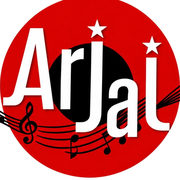
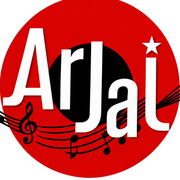
Новый логотип ArJai (без фона) и фавиконки; блок создателя — от третьего лица: «Этот сайт сделал Амир»
Claude-Session: https://claude.ai/code/session_01FCrHJHtE9CwfmXPZF1N4Np

diff --git a/kk/index.html b/kk/index.html
@@ -29,7 +29,7 @@
 <link rel="apple-touch-icon" href="../assets/apple-touch-icon.png">
 <link rel="preload" href="../assets/fonts/onest-cyrillic-500-normal.woff2" as="font" type="font/woff2" crossorigin>
 <link rel="preload" href="../assets/fonts/onest-cyrillic-400-normal.woff2" as="font" type="font/woff2" crossorigin>
-<link rel="stylesheet" href="../assets/styles.css?v=20261105o">
+<link rel="stylesheet" href="../assets/styles.css?v=20261105p">
 <script type="application/ld+json">
 {
  "@context": "https://schema.org",
@@ -899,7 +899,7 @@
       <div class="dev-text">
         <span class="dev-tag">Сайтты жасаған</span>
         <h3>Амир — бизнеске арналған сайттар және ЖИ-автоматтандыру</h3>
-        <p>Бұл сайтты мен жасадым. Сайттар, WhatsApp пен Instagram-ға арналған чат-боттар және өтінімдерді автоматтандыру жасаймын. Осындай керек болса — жазыңыз.</p>
+        <p>Бұл сайтты Амир жасады. Ол сайттар, WhatsApp пен Instagram-ға арналған чат-боттар және өтінімдерді автоматтандыру жасайды. Осындай керек болса — оған жазыңыз.</p>
       </div>
       <div class="dev-btns">
         <a class="dev-btn wa" href="https://wa.me/77075857331" target="_blank" rel="noopener"><svg viewBox="0 0 24 24" aria-hidden="true"><path fill="currentColor" d="M12 2a10 10 0 0 0-8.6 15.1L2 22l5-1.3A10 10 0 1 0 12 2zm0 18.2a8.2 8.2 0 0 1-4.2-1.2l-.3-.2-3 .8.8-2.9-.2-.3A8.2 8.2 0 1 1 12 20.2z"/><path fill="currentColor" d="M8.6 7.2c.2-.4.5-.4.7-.4h.6c.2 0 .4 0 .6.5l.8 1.9c.1.2.1.4 0 .6l-.4.6c-.1.2-.3.3-.1.6.6 1 1.4 1.8 2.4 2.4.3.2.4.1.6-.1l.6-.7c.2-.2.3-.2.6-.1l1.8.9c.3.1.4.2.4.4 0 .5-.2 1.2-.7 1.6-.5.4-1.4.6-2.3.3-1.1-.3-2.6-1-3.8-2.3-1.3-1.3-2.1-2.8-2.3-3.7-.2-.9 0-1.8.5-2.5z"/></svg><span><b>WhatsApp</b><small>+7 707 585 73 31</small></span></a>
@@ -1023,6 +1023,6 @@
   </div>
 </dialog>
 
-<script src="../assets/script.js?v=20261105o"></script>
+<script src="../assets/script.js?v=20261105p"></script>
 </body>
 </html>

diff --git a/index.html b/index.html
@@ -29,7 +29,7 @@
 <link rel="apple-touch-icon" href="assets/apple-touch-icon.png">
 <link rel="preload" href="assets/fonts/onest-cyrillic-500-normal.woff2" as="font" type="font/woff2" crossorigin>
 <link rel="preload" href="assets/fonts/onest-cyrillic-400-normal.woff2" as="font" type="font/woff2" crossorigin>
-<link rel="stylesheet" href="assets/styles.css?v=20261105o">
+<link rel="stylesheet" href="assets/styles.css?v=20261105p">
 <script type="application/ld+json">
 {
  "@context": "https://schema.org",
@@ -899,7 +899,7 @@
       <div class="dev-text">
         <span class="dev-tag">Создатель сайта</span>
         <h3>Амир — сайты и ИИ-автоматизация для бизнеса</h3>
-        <p>Этот сайт сделал я. Делаю сайты, чат-ботов для WhatsApp и Instagram и автоматизацию заявок. Хотите так же — напишите.</p>
+        <p>Этот сайт сделал Амир. Он создаёт сайты, чат-ботов для WhatsApp и Instagram и автоматизацию заявок. Хотите такой же — напишите ему.</p>
       </div>
       <div class="dev-btns">
         <a class="dev-btn wa" href="https://wa.me/77075857331" target="_blank" rel="noopener"><svg viewBox="0 0 24 24" aria-hidden="true"><path fill="currentColor" d="M12 2a10 10 0 0 0-8.6 15.1L2 22l5-1.3A10 10 0 1 0 12 2zm0 18.2a8.2 8.2 0 0 1-4.2-1.2l-.3-.2-3 .8.8-2.9-.2-.3A8.2 8.2 0 1 1 12 20.2z"/><path fill="currentColor" d="M8.6 7.2c.2-.4.5-.4.7-.4h.6c.2 0 .4 0 .6.5l.8 1.9c.1.2.1.4 0 .6l-.4.6c-.1.2-.3.3-.1.6.6 1 1.4 1.8 2.4 2.4.3.2.4.1.6-.1l.6-.7c.2-.2.3-.2.6-.1l1.8.9c.3.1.4.2.4.4 0 .5-.2 1.2-.7 1.6-.5.4-1.4.6-2.3.3-1.1-.3-2.6-1-3.8-2.3-1.3-1.3-2.1-2.8-2.3-3.7-.2-.9 0-1.8.5-2.5z"/></svg><span><b>WhatsApp</b><small>+7 707 585 73 31</small></span></a>
@@ -1023,6 +1023,6 @@
   </div>
 </dialog>
 
-<script src="assets/script.js?v=20261105o"></script>
+<script src="assets/script.js?v=20261105p"></script>
 </body>
 </html>

diff --git a/tools/pages/index.html b/tools/pages/index.html
@@ -577,7 +577,7 @@
       <div class="dev-text">
         <span class="dev-tag">Создатель сайта</span>
         <h3>Амир — сайты и ИИ-автоматизация для бизнеса</h3>
-        <p>Этот сайт сделал я. Делаю сайты, чат-ботов для WhatsApp и Instagram и автоматизацию заявок. Хотите так же — напишите.</p>
+        <p>Этот сайт сделал Амир. Он создаёт сайты, чат-ботов для WhatsApp и Instagram и автоматизацию заявок. Хотите такой же — напишите ему.</p>
       </div>
       <div class="dev-btns">
         <a class="dev-btn wa" href="https://wa.me/77075857331" target="_blank" rel="noopener"><svg viewBox="0 0 24 24" aria-hidden="true"><path fill="currentColor" d="M12 2a10 10 0 0 0-8.6 15.1L2 22l5-1.3A10 10 0 1 0 12 2zm0 18.2a8.2 8.2 0 0 1-4.2-1.2l-.3-.2-3 .8.8-2.9-.2-.3A8.2 8.2 0 1 1 12 20.2z"/><path fill="currentColor" d="M8.6 7.2c.2-.4.5-.4.7-.4h.6c.2 0 .4 0 .6.5l.8 1.9c.1.2.1.4 0 .6l-.4.6c-.1.2-.3.3-.1.6.6 1 1.4 1.8 2.4 2.4.3.2.4.1.6-.1l.6-.7c.2-.2.3-.2.6-.1l1.8.9c.3.1.4.2.4.4 0 .5-.2 1.2-.7 1.6-.5.4-1.4.6-2.3.3-1.1-.3-2.6-1-3.8-2.3-1.3-1.3-2.1-2.8-2.3-3.7-.2-.9 0-1.8.5-2.5z"/></svg><span><b>WhatsApp</b><small>+7 707 585 73 31</small></span></a>

diff --git a/kk/dosi.html b/kk/dosi.html
@@ -27,7 +27,7 @@
 <link rel="icon" href="../assets/favicon-32.png" sizes="32x32" type="image/png">
 <link rel="icon" href="../assets/favicon-192.png" sizes="192x192" type="image/png">
 <link rel="apple-touch-icon" href="../assets/apple-touch-icon.png">
-<link rel="stylesheet" href="../assets/styles.css?v=20261105o">
+<link rel="stylesheet" href="../assets/styles.css?v=20261105p">
 <script type="application/ld+json">
 {
  "@context": "https://schema.org",
@@ -453,6 +453,6 @@
   </div>
 </dialog>
 
-<script src="../assets/script.js?v=20261105o"></script>
+<script src="../assets/script.js?v=20261105p"></script>
 </body>
 </html>

diff --git a/kk/masterskaya.html b/kk/masterskaya.html
@@ -27,7 +27,7 @@
 <link rel="icon" href="../assets/favicon-32.png" sizes="32x32" type="image/png">
 <link rel="icon" href="../assets/favicon-192.png" sizes="192x192" type="image/png">
 <link rel="apple-touch-icon" href="../assets/apple-touch-icon.png">
-<link rel="stylesheet" href="../assets/styles.css?v=20261105o">
+<link rel="stylesheet" href="../assets/styles.css?v=20261105p">
 <script type="application/ld+json">
 {
  "@context": "https://schema.org",
@@ -228,6 +228,6 @@
   </div>
 </dialog>
 
-<script src="../assets/script.js?v=20261105o"></script>
+<script src="../assets/script.js?v=20261105p"></script>
 </body>
 </html>

diff --git a/kk/repetitor.html b/kk/repetitor.html
@@ -27,7 +27,7 @@
 <link rel="icon" href="../assets/favicon-32.png" sizes="32x32" type="image/png">
 <link rel="icon" href="../assets/favicon-192.png" sizes="192x192" type="image/png">
 <link rel="apple-touch-icon" href="../assets/apple-touch-icon.png">
-<link rel="stylesheet" href="../assets/styles.css?v=20261105o">
+<link rel="stylesheet" href="../assets/styles.css?v=20261105p">
 <script type="application/ld+json">
 {
  "@context": "https://schema.org",
@@ -287,6 +287,6 @@
   </div>
 </dialog>
 
-<script src="../assets/script.js?v=20261105o"></script>
+<script src="../assets/script.js?v=20261105p"></script>
 </body>
 </html>

diff --git a/kk/shkolam.html b/kk/shkolam.html
@@ -27,7 +27,7 @@
 <link rel="icon" href="../assets/favicon-32.png" sizes="32x32" type="image/png">
 <link rel="icon" href="../assets/favicon-192.png" sizes="192x192" type="image/png">
 <link rel="apple-touch-icon" href="../assets/apple-touch-icon.png">
-<link rel="stylesheet" href="../assets/styles.css?v=20261105o">
+<link rel="stylesheet" href="../assets/styles.css?v=20261105p">
 <script type="application/ld+json">
 {
  "@context": "https://schema.org",
@@ -259,6 +259,6 @@
   </div>
 </dialog>
 
-<script src="../assets/script.js?v=20261105o"></script>
+<script src="../assets/script.js?v=20261105p"></script>
 </body>
 </html>

diff --git a/kk/zanyatiya.html b/kk/zanyatiya.html
@@ -27,7 +27,7 @@
 <link rel="icon" href="../assets/favicon-32.png" sizes="32x32" type="image/png">
 <link rel="icon" href="../assets/favicon-192.png" sizes="192x192" type="image/png">
 <link rel="apple-touch-icon" href="../assets/apple-touch-icon.png">
-<link rel="stylesheet" href="../assets/styles.css?v=20261105o">
+<link rel="stylesheet" href="../assets/styles.css?v=20261105p">
 <script type="application/ld+json">
 {
  "@context": "https://schema.org",
@@ -386,6 +386,6 @@
   </div>
 </dialog>
 
-<script src="../assets/script.js?v=20261105o"></script>
+<script src="../assets/script.js?v=20261105p"></script>
 </body>
 </html>

diff --git a/kk/zvukozapis.html b/kk/zvukozapis.html
@@ -27,7 +27,7 @@
 <link rel="icon" href="../assets/favicon-32.png" sizes="32x32" type="image/png">
 <link rel="icon" href="../assets/favicon-192.png" sizes="192x192" type="image/png">
 <link rel="apple-touch-icon" href="../assets/apple-touch-icon.png">
-<link rel="stylesheet" href="../assets/styles.css?v=20261105o">
+<link rel="stylesheet" href="../assets/styles.css?v=20261105p">
 <script type="application/ld+json">
 {
  "@context": "https://schema.org",
@@ -205,6 +205,6 @@
   </div>
 </dialog>
 
-<script src="../assets/script.js?v=20261105o"></script>
+<script src="../assets/script.js?v=20261105p"></script>
 </body>
 </html>

diff --git a/dosi.html b/dosi.html
@@ -27,7 +27,7 @@
 <link rel="icon" href="assets/favicon-32.png" sizes="32x32" type="image/png">
 <link rel="icon" href="assets/favicon-192.png" sizes="192x192" type="image/png">
 <link rel="apple-touch-icon" href="assets/apple-touch-icon.png">
-<link rel="stylesheet" href="assets/styles.css?v=20261105o">
+<link rel="stylesheet" href="assets/styles.css?v=20261105p">
 <script type="application/ld+json">
 {
  "@context": "https://schema.org",
@@ -453,6 +453,6 @@
   </div>
 </dialog>
 
-<script src="assets/script.js?v=20261105o"></script>
+<script src="assets/script.js?v=20261105p"></script>
 </body>
 </html>

diff --git a/masterskaya.html b/masterskaya.html
@@ -27,7 +27,7 @@
 <link rel="icon" href="assets/favicon-32.png" sizes="32x32" type="image/png">
 <link rel="icon" href="assets/favicon-192.png" sizes="192x192" type="image/png">
 <link rel="apple-touch-icon" href="assets/apple-touch-icon.png">
-<link rel="stylesheet" href="assets/styles.css?v=20261105o">
+<link rel="stylesheet" href="assets/styles.css?v=20261105p">
 <script type="application/ld+json">
 {
  "@context": "https://schema.org",
@@ -228,6 +228,6 @@
   </div>
 </dialog>
 
-<script src="assets/script.js?v=20261105o"></script>
+<script src="assets/script.js?v=20261105p"></script>
 </body>
 </html>

diff --git a/repetitor.html b/repetitor.html
@@ -27,7 +27,7 @@
 <link rel="icon" href="assets/favicon-32.png" sizes="32x32" type="image/png">
 <link rel="icon" href="assets/favicon-192.png" sizes="192x192" type="image/png">
 <link rel="apple-touch-icon" href="assets/apple-touch-icon.png">
-<link rel="stylesheet" href="assets/styles.css?v=20261105o">
+<link rel="stylesheet" href="assets/styles.css?v=20261105p">
 <script type="application/ld+json">
 {
  "@context": "https://schema.org",
@@ -287,6 +287,6 @@
   </div>
 </dialog>
 
-<script src="assets/script.js?v=20261105o"></script>
+<script src="assets/script.js?v=20261105p"></script>
 </body>
 </html>
